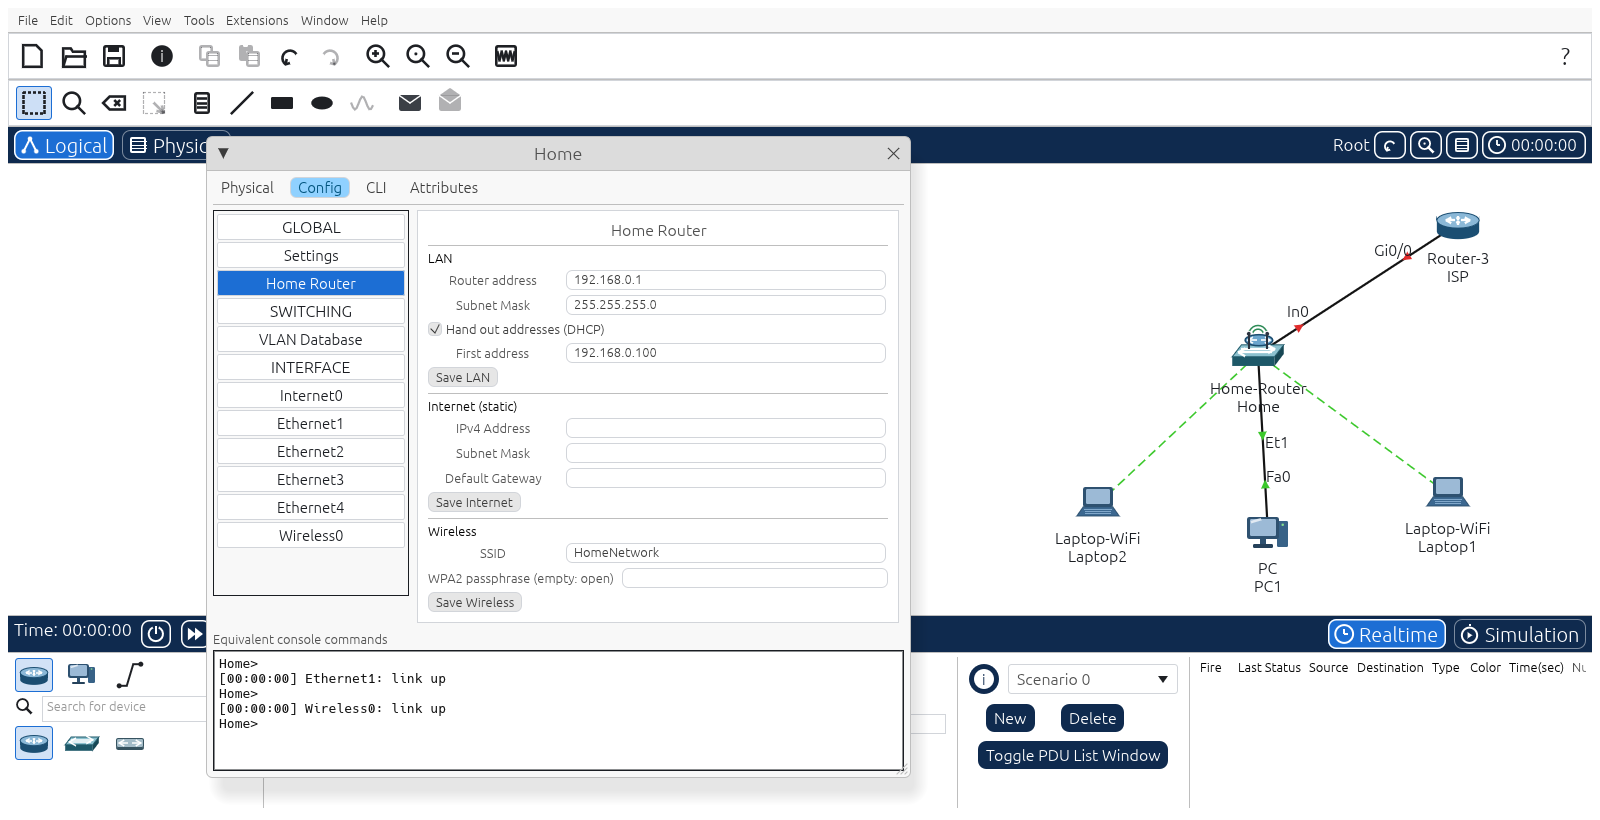
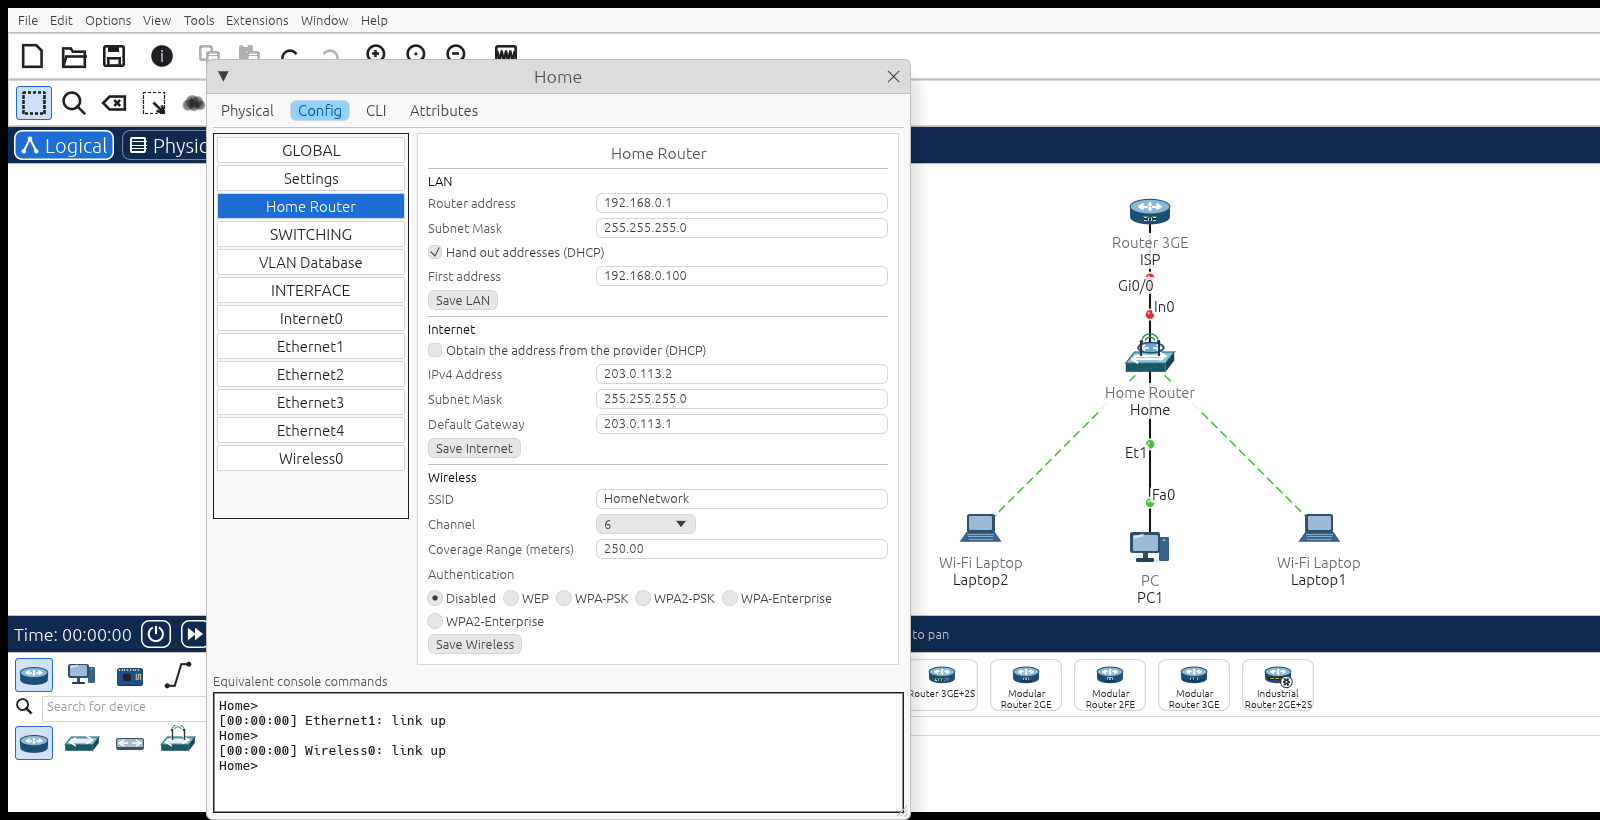
Refresh the README screenshots (#234)
* Render the README screenshots in the Snapshots workflow

* Keep rendering the README screenshots when one recipe fails

* Upload the README screenshots even when one recipe fails

* Adjust the README screenshot recipes

* Render the home router screenshot on a wider canvas

* docs: refresh the README screenshots, add the wiring closet

diff --git a/crates/ui-egui/examples/snapshot.rs b/crates/ui-egui/examples/snapshot.rs
@@ -82,62 +82,67 @@ fn main() {
             other => out = other.to_string(),
         }
     }
-    let mut harness = egui_kittest::Harness::builder().with_size(egui::vec2(size.0, size.1)).with_max_steps(12).wgpu().build_ui_state(
-        |ui, app: &mut PacketApp| {
-            netlabcraft_ui_egui::fonts::install(ui.ctx());
-            app.apply_theme(ui.ctx());
-            app.ui(ui);
-        },
-        {
-            let mut app = PacketApp::new(session);
-            app.ui.dark = dark;
-            if let Some(credits) = about {
-                app.ui.show_about = true;
-                app.ui.about_credits = credits;
-            }
-            for c in &consoles {
-                let id = app.session.topology.resolve(c).expect("device");
-                netlabcraft_ui_egui::open_console(&mut app, id);
-                if let Some(which) = &desktop {
-                    netlabcraft_ui_egui::open_desktop_app(&mut app, id, which.as_str());
+    let mut harness = egui_kittest::Harness::builder()
+        .with_size(egui::vec2(size.0, size.1))
+        .with_max_steps(12)
+        .with_accessibility_check(false)
+        .wgpu()
+        .build_ui_state(
+            |ui, app: &mut PacketApp| {
+                netlabcraft_ui_egui::fonts::install(ui.ctx());
+                app.apply_theme(ui.ctx());
+                app.ui(ui);
+            },
+            {
+                let mut app = PacketApp::new(session);
+                app.ui.dark = dark;
+                if let Some(credits) = about {
+                    app.ui.show_about = true;
+                    app.ui.about_credits = credits;
                 }
-                if config {
-                    netlabcraft_ui_egui::open_config_tab(&mut app, id);
+                for c in &consoles {
+                    let id = app.session.topology.resolve(c).expect("device");
+                    netlabcraft_ui_egui::open_console(&mut app, id);
+                    if let Some(which) = &desktop {
+                        netlabcraft_ui_egui::open_desktop_app(&mut app, id, which.as_str());
+                    }
+                    if config {
+                        netlabcraft_ui_egui::open_config_tab(&mut app, id);
+                    }
+                    if physical_tab {
+                        netlabcraft_ui_egui::open_physical_tab(&mut app, id);
+                    }
+                    if services {
+                        netlabcraft_ui_egui::open_services_tab(&mut app, id);
+                    }
+                    if let Some(p) = &page {
+                        netlabcraft_ui_egui::open_services_page(&mut app, id, p);
+                    }
+                    if let Some(u) = &url {
+                        netlabcraft_ui_egui::open_browser(&mut app, id, u);
+                    }
+                    if let Some(t) = &tab {
+                        netlabcraft_ui_egui::open_tab(&mut app, id, t);
+                    }
+                    if let Some(p) = &config_page {
+                        netlabcraft_ui_egui::open_config_page(&mut app, id, p);
+                    }
                 }
-                if physical_tab {
-                    netlabcraft_ui_egui::open_physical_tab(&mut app, id);
+                if let Some(c) = &connections {
+                    netlabcraft_ui_egui::show_connections(&mut app, c.as_deref());
                 }
-                if services {
-                    netlabcraft_ui_egui::open_services_tab(&mut app, id);
+                if let Some(c) = &complex {
+                    let id = app.session.topology.resolve(c).expect("device");
+                    netlabcraft_ui_egui::open_complex_pdu(&mut app, Some(id));
                 }
-                if let Some(p) = &page {
-                    netlabcraft_ui_egui::open_services_page(&mut app, id, p);
+                app.ui.events.selected = event;
+                app.ui.events.info = info;
+                if simulation {
+                    app.ui.mode = netlabcraft_ui_egui::Mode::Simulation;
                 }
-                if let Some(u) = &url {
-                    netlabcraft_ui_egui::open_browser(&mut app, id, u);
-                }
-                if let Some(t) = &tab {
-                    netlabcraft_ui_egui::open_tab(&mut app, id, t);
-                }
-                if let Some(p) = &config_page {
-                    netlabcraft_ui_egui::open_config_page(&mut app, id, p);
-                }
-            }
-            if let Some(c) = &connections {
-                netlabcraft_ui_egui::show_connections(&mut app, c.as_deref());
-            }
-            if let Some(c) = &complex {
-                let id = app.session.topology.resolve(c).expect("device");
-                netlabcraft_ui_egui::open_complex_pdu(&mut app, Some(id));
-            }
-            app.ui.events.selected = event;
-            app.ui.events.info = info;
-            if simulation {
-                app.ui.mode = netlabcraft_ui_egui::Mode::Simulation;
-            }
-            app
-        },
-    );
+                app
+            },
+        );
     harness.run_steps(2);
     if physical {
         // After the first frames, so the view can centre on what it shows.

diff --git a/README.md b/README.md
@@ -25,7 +25,7 @@
 <br>
 
 <p align="center">
-  <img src="docs/images/hero-multilayer.png" alt="NetLabCraft's main window: a multilayer switch in the middle routes between four PCs in two VLANs and reaches a router and a server above it; menus and two toolbars on top, the device box, scenario list and PDU table at the bottom" width="100%">
+  <img src="docs/images/hero-multilayer.png" alt="NetLabCraft's main window: a multilayer switch in the middle serves four PCs and reaches a router and a server above it; menus and two toolbars on top, the device box, scenario list and PDU table at the bottom" width="100%">
   <br><sub><b>Inter-VLAN routing on a multilayer switch</b>: one of the thirty-three sample labs (<code>File → New → Sample</code>), built entirely from NetLabCraft commands.</sub>
 </p>
 
@@ -46,16 +46,19 @@
 
 <table>
 <tr>
-<td width="50%" valign="top"><img src="docs/images/router-cli.png" alt="A router window on its CLI tab: enable, show ip ospf neighbor listing two neighbours in FULL state, and show ip route ospf listing three OSPF routes" width="100%"><p align="center"><sub><b>The console.</b> User, privileged and configuration modes, abbreviations, <code>?</code> help, Tab completion, history and debugs.</sub></p></td>
+<td width="50%" valign="top"><img src="docs/images/router-cli.png" alt="A router window on its CLI tab: enable, show ip ospf neighbor listing two neighbours in FULL state, and show ip interface brief listing three interfaces with addresses, all up" width="100%"><p align="center"><sub><b>The console.</b> User, privileged and configuration modes, abbreviations, <code>?</code> help, Tab completion, history and debugs.</sub></p></td>
 <td width="50%" valign="top"><img src="docs/images/simulation-mode.png" alt="Simulation mode: an envelope travels along the cable between a switch and a router, and the Simulation Panel on the right lists ARP events with their time, last device, device and type" width="100%"><p align="center"><sub><b>Simulation mode.</b> Every frame in an event list, replayed on the canvas, decoded layer by layer and exportable to pcap.</sub></p></td>
 </tr>
 <tr>
-<td width="50%" valign="top"><img src="docs/images/home-router.png" alt="A home router's window on its Home Router page: LAN address and DHCP range, static Internet settings and the Wi-Fi network; beside it the router, a PC, two Wi-Fi laptops linked by dashed lines and an ISP router" width="100%"><p align="center"><sub><b>Wireless.</b> Home routers with DHCP, NAT and Wi-Fi out of the box, access points, Wi-Fi laptops with WPA2.</sub></p></td>
-<td width="50%" valign="top"><img src="docs/images/activity.png" alt="The Instructions window of a graded activity: the title Your first router, numbered steps, Completion 0% of 9 points, the time left and the Check Results and Reset Activity buttons" width="100%"><p align="center"><sub><b>Activities.</b> Instructions, checks worth points, hints, a time limit and a password lock, built with the Activity Wizard.</sub></p></td>
+<td width="50%" valign="top"><img src="docs/images/home-router.png" alt="A home router's window on its Home Router page: LAN address and DHCP range, static Internet settings and the Wi-Fi network; beside it the provider's router above the home router, with a PC below it and two Wi-Fi laptops linked by dashed lines" width="100%"><p align="center"><sub><b>Wireless.</b> Home routers with DHCP, NAT and Wi-Fi out of the box, access points, Wi-Fi laptops with WPA2.</sub></p></td>
+<td width="50%" valign="top"><img src="docs/images/activity.png" alt="The Instructions window of a graded activity: the title Your first router, numbered steps, Completion 0% of 10 points, the time left, and the Check Results, Reset Activity, Compare, Connectivity Tests and Save results buttons" width="100%"><p align="center"><sub><b>Activities.</b> Instructions, checks worth points, hints, a time limit and a password lock, built with the Activity Wizard.</sub></p></td>
 </tr>
 <tr>
 <td width="50%" valign="top"><img src="docs/images/pc-ip-configuration.png" alt="A PC's Desktop with the IP Configuration app open: IPv4 settings on top, and IPv6 set to Automatic with an address learned from the router, the link-local address and the router's link-local address as gateway" width="100%"><p align="center"><sub><b>PC desktop.</b> IP Configuration with DHCP, static and IPv6 autoconfiguration; Command Prompt and Web Browser.</sub></p></td>
 <td width="50%" valign="top"><img src="docs/images/serial-wan.png" alt="Two routers joined by a red serial cable with a zigzag in the middle and a small clock next to the DCE end, each with a PC below it" width="100%"><p align="center"><sub><b>Serial WAN links.</b> DCE and DTE ends, clock rate, HDLC or PPP with PAP and CHAP; the clock marks the DCE end.</sub></p></td>
+</tr>
+<tr>
+<td colspan="2" valign="top" align="center"><img src="docs/images/wiring-closet.png" alt="The Physical workspace inside a wiring closet: a rack with a router, switches, a firewall and a copper patch panel, cabled in green, orange and black, beside a shelf holding a server, an access point, a cable modem, a DSL modem and a home router, and a table below" width="66%"><p align="center"><sub><b>Physical workspace.</b> Cities, buildings and wiring closets with racks, shelves, tables, patch panels and cables between ports.</sub></p></td>
 </tr>
 </table>
 

diff --git a/ATTRIBUTION.md b/ATTRIBUTION.md
@@ -19,6 +19,7 @@ Generated-in-code art is original and has no file to list: the device icons and 
 | `docs/images/simulation-mode.png` | NetLabCraft contributors | Rendered by NetLabCraft itself (`cargo run -p netlabcraft-ui-egui --example snapshot`) | MIT OR Apache-2.0 | README screenshot: Simulation mode after a ping in the two-subnets sample. |
 | `docs/images/pc-ip-configuration.png` | NetLabCraft contributors | Rendered by NetLabCraft itself (`cargo run -p netlabcraft-ui-egui --example snapshot`) | MIT OR Apache-2.0 | README screenshot: a PC's IP Configuration in the ipv6 sample. |
 | `docs/images/serial-wan.png` | NetLabCraft contributors | Rendered by NetLabCraft itself (`cargo run -p netlabcraft-ui-egui --example snapshot`) | MIT OR Apache-2.0 | README screenshot: the serial-wan sample lab. |
+| `docs/images/wiring-closet.png` | NetLabCraft contributors | Rendered by NetLabCraft itself (`cargo run -p netlabcraft-ui-egui --example sheets`) | MIT OR Apache-2.0 | README screenshot: the Physical workspace inside the wiring closet of the sheets example (a rack with a cabled patch panel, a shelf and a table). |
 | `docs/images/home-router.png` | NetLabCraft contributors | Rendered by NetLabCraft itself (`cargo run -p netlabcraft-ui-egui --example snapshot`) | MIT OR Apache-2.0 | README screenshot: a home router's settings page in a test lab with Wi-Fi laptops. |
 | `docs/images/activity.png` | NetLabCraft contributors | Rendered by NetLabCraft itself (`cargo run -p netlabcraft-ui-egui --example snapshot`) | MIT OR Apache-2.0 | README screenshot: the Instructions window of the activity-first-router sample with a time limit. |
 

diff --git a/docs/extending.md b/docs/extending.md
@@ -36,6 +36,10 @@ the PNGs as the `snapshots` artifact. It is not a gate. Start it with **Actions 
 the label `snapshots` on a pull request, or by pushing a branch named `visual/*`; download the artifact from the run page
 or with `gh run download <run-id> -n snapshots -D <directory outside the repository>`. The PNGs are never committed.
 
+The same workflow has a `readme` job that renders the seven README screenshots of `docs/images` with the recipes in
+`.github/scripts/readme-images.sh` (artifact `readme-images`). To refresh them, run it, look at every PNG, then optimise
+and strip the metadata (`optipng -strip all`) before committing; the closet picture is `closet-light.png` of the `snapshots` artifact.
+
 ## Adding a debug topic
 
 The `debug` commands share one framework (`crates/sim/src/debug.rs`, `crates/ios/src/exec/debug.rs`): each device holds a set
